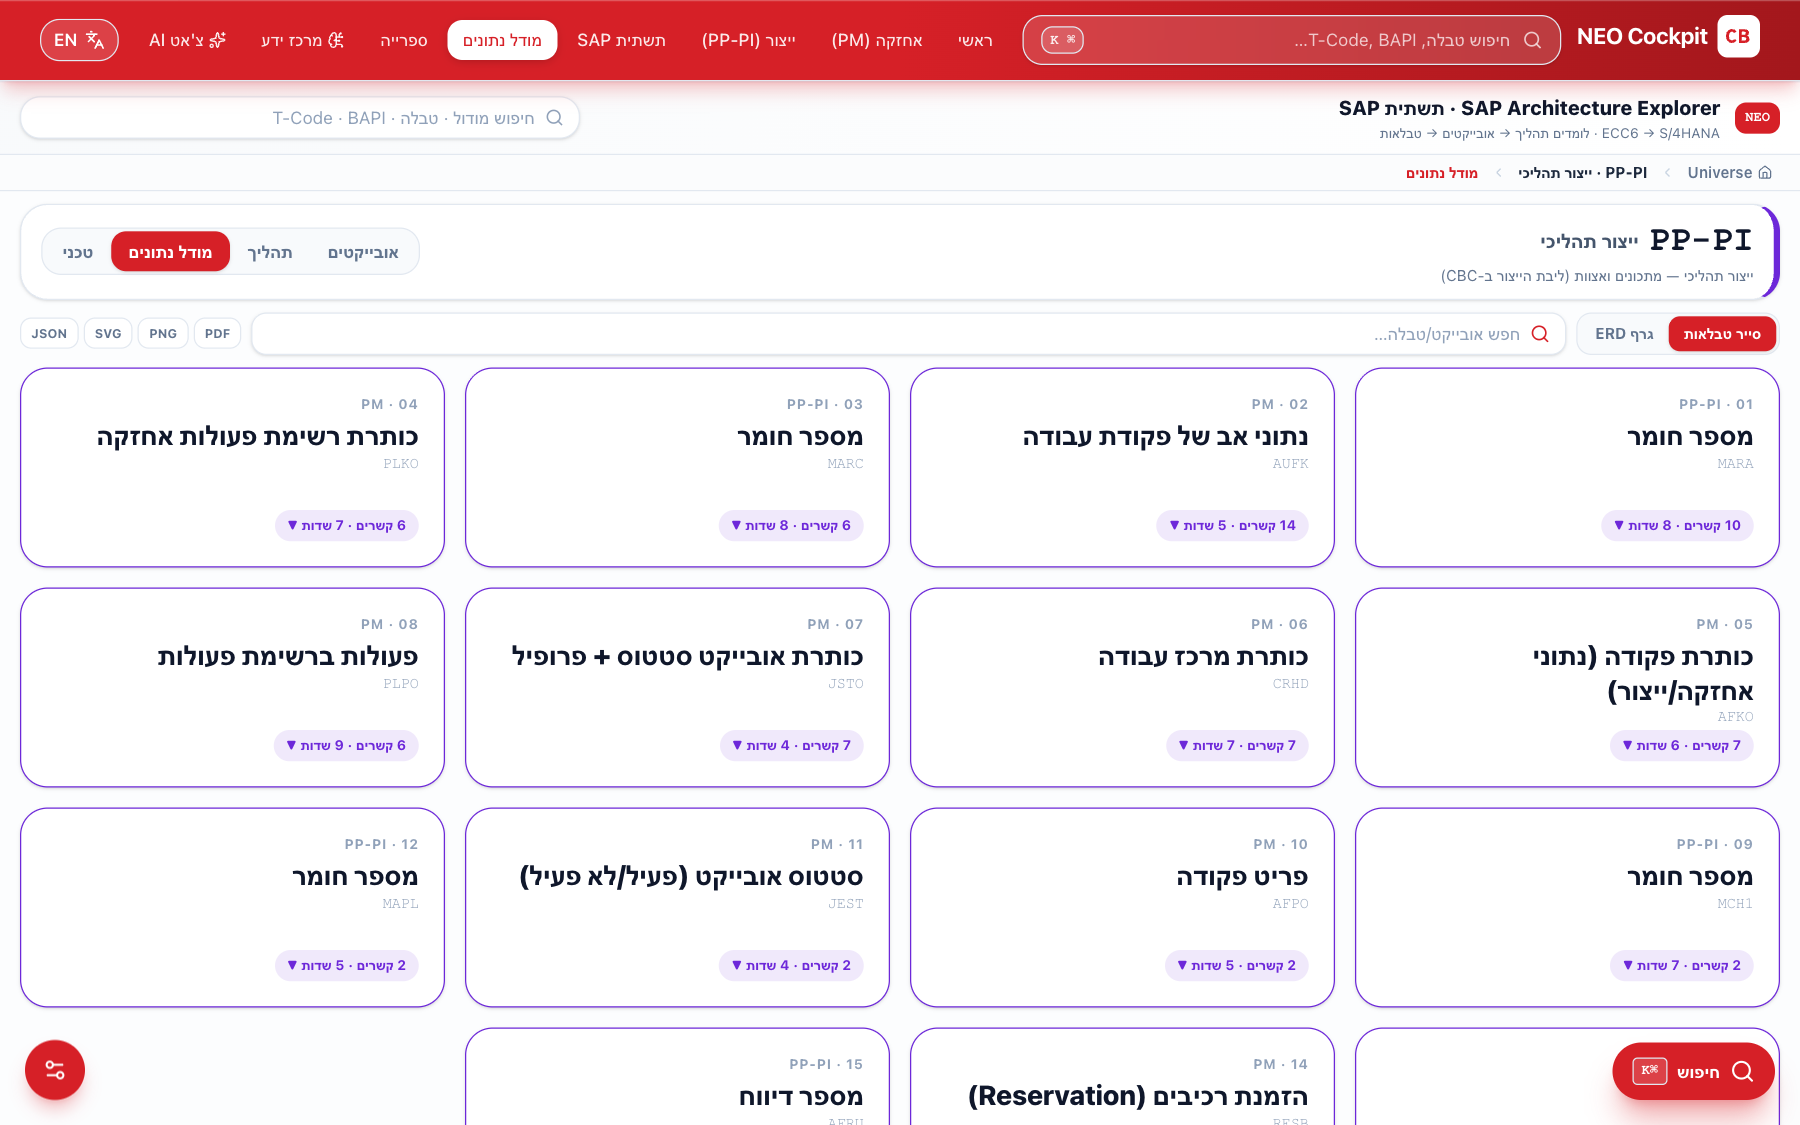
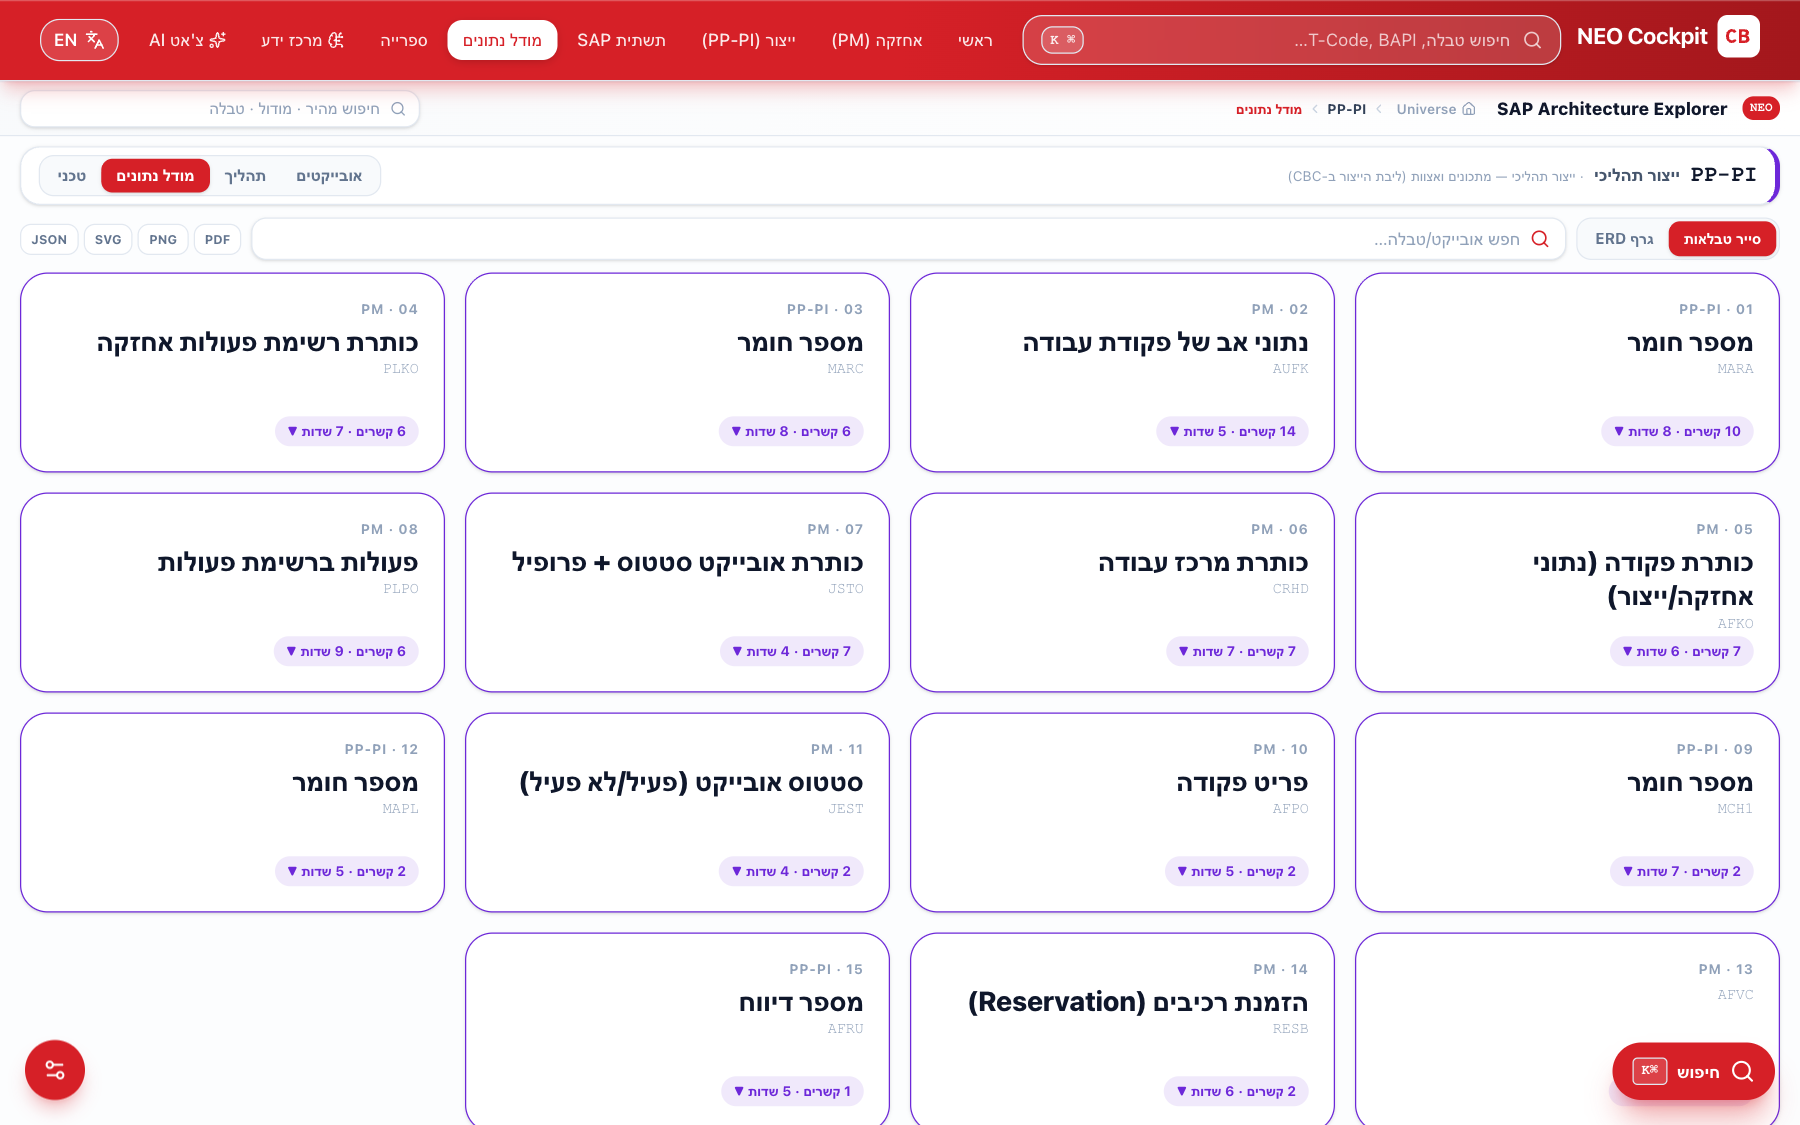
refine(data-model): slim unified header strip
- merge internal top bar + breadcrumb into one slim line (brand · breadcrumb ·
  compact quick-search), drop the oversized duplicate search
- shrink module hero to a slim one-line strip (code · name · purpose · tabs)
- tighter section padding → first card row ~60px higher, 4 rows above fold
Professional compact header near the home bar. Build clean, 0 errors, 0 external.

diff --git a/app/sap-infrastructure/page.tsx b/app/sap-infrastructure/page.tsx
@@ -58,16 +58,19 @@ export default function Page() {
   return (
     <div dir="rtl" className="relative mx-[calc(50%-50vw)] -my-8 w-screen max-w-[100vw] overflow-hidden border-y border-slate-200 bg-white text-slate-900">
       <style>{ANIM}</style>
-      {/* top bar */}
-      <div className="flex flex-wrap items-center justify-between gap-3 border-b border-slate-200 bg-gradient-to-l from-white to-slate-50 px-4 py-2">
-        <div className="flex items-center gap-3">
-          <span className="rounded-md bg-[#d62027] px-2 py-1 font-mono text-[11px] font-bold text-white">NEO</span>
-          <div><div className="text-base font-extrabold text-slate-900">SAP Architecture Explorer · תשתית SAP</div><div className="text-[11px] text-slate-500">ECC6 → S/4HANA · לומדים תהליך → אובייקטים → טבלאות</div></div>
-        </div>
-        <div className="relative w-full max-w-md">
-          <div className="flex items-center gap-2 rounded-xl border border-slate-200 bg-white px-3 py-1.5 shadow-sm">
-            <Search className="size-4 text-slate-400" />
-            <input value={q} onChange={(e) => setQ(e.target.value)} placeholder="חיפוש מודול · טבלה · T-Code · BAPI" className="w-full bg-transparent text-sm outline-none placeholder:text-slate-400" />
+      {/* unified slim header: brand · breadcrumb · compact search */}
+      <div className="flex flex-wrap items-center gap-x-3 gap-y-1 border-b border-slate-200 bg-gradient-to-l from-white to-slate-50 px-4 py-1.5">
+        <span className="rounded-md bg-[#d62027] px-1.5 py-0.5 font-mono text-[10px] font-bold text-white">NEO</span>
+        <span className="text-sm font-extrabold text-slate-900">SAP Architecture Explorer</span>
+        <nav className="flex items-center gap-1 text-[11px]">
+          <button onClick={() => setNav({ level: "universe" })} className="flex items-center gap-1 rounded px-1 py-0.5 font-semibold text-slate-400 hover:bg-slate-100 hover:text-slate-700"><Home className="size-3" />Universe</button>
+          {nav.module && <><ChevronLeft className="size-3 text-slate-300" /><span className="font-bold text-slate-700">{nav.module}</span></>}
+          {nav.module && nav.tab && <><ChevronLeft className="size-3 text-slate-300" /><span className="font-semibold text-[#d62027]">{(TABS.find((x) => x[0] === nav.tab) || ["", nav.tab])[1]}</span></>}
+        </nav>
+        <div className="relative ms-auto w-full max-w-xs">
+          <div className="flex items-center gap-2 rounded-lg border border-slate-200 bg-white px-2.5 py-1 shadow-sm">
+            <Search className="size-3.5 text-slate-400" />
+            <input value={q} onChange={(e) => setQ(e.target.value)} placeholder="חיפוש מהיר · מודול · טבלה" className="w-full bg-transparent text-[13px] outline-none placeholder:text-slate-400" />
             {q && <button onClick={() => setQ("")}><X className="size-3.5 text-slate-400" /></button>}
           </div>
           {results.length > 0 && (
@@ -79,14 +82,8 @@ export default function Page() {
           )}
         </div>
       </div>
-      {/* breadcrumb */}
-      <div className="flex items-center gap-1 border-b border-slate-200 bg-slate-50/60 px-4 py-1 text-xs">
-        <button onClick={() => setNav({ level: "universe" })} className="flex items-center gap-1 rounded px-1.5 py-0.5 font-semibold text-slate-500 hover:bg-slate-100"><Home className="size-3" /> Universe</button>
-        {nav.module && <><ChevronLeft className="size-3 text-slate-300" /><span className="rounded px-1.5 py-0.5 font-bold text-slate-800">{nav.module} · {MOD_NAME_HE[nav.module]}</span></>}
-        {nav.module && nav.tab && <><ChevronLeft className="size-3 text-slate-300" /><span className="rounded px-1.5 py-0.5 font-semibold text-[#d62027]">{(TABS.find((x) => x[0] === nav.tab) || ["", nav.tab])[1]}</span></>}
-      </div>
 
-      <div className="bg-slate-50/40 px-4 py-2.5">
+      <div className="bg-slate-50/40 px-4 py-2">
         {nav.level === "universe" && <Universe data={data} color={color} onModule={openModule} />}
         {nav.level === "module" && nav.module && <Workspace data={data} color={color} code={nav.module} tab={nav.tab || "erd"} focus={nav.focus} byName={byName}
           setTab={(t) => setNav({ level: "module", module: nav.module, tab: t })} openErd={(focus) => setNav({ level: "module", module: nav.module, tab: "erd", focus })}
@@ -170,10 +167,14 @@ function Workspace({ data, color, code, tab, focus, byName, setTab, openErd, onT
   useEffect(() => { setErdMode("cards"); }, [code]);
   return (
     <div className="space-y-2.5" style={{ animation: "fadeUp .35s ease both" }}>
-      <div className="flex flex-wrap items-center justify-between gap-3 rounded-2xl border border-slate-200 bg-white px-4 py-2.5 shadow-sm" style={{ borderInlineStartColor: c, borderInlineStartWidth: 5 }}>
-        <div><div className="flex items-center gap-2"><span className="font-mono text-2xl font-extrabold text-slate-900">{code}</span><span className="font-semibold text-slate-600">{MOD_NAME_HE[code]}</span></div><p className="mt-0.5 max-w-3xl text-xs text-slate-500">{purpose}</p></div>
-        <div className="flex rounded-xl border border-slate-200 bg-slate-50 p-0.5">
-          {TABS.map(([id, label]) => <button key={id} onClick={() => setTab(id)} className={`rounded-lg px-3.5 py-1.5 text-sm font-bold transition ${tab === id ? "bg-[#d62027] text-white shadow-sm" : "text-slate-500 hover:text-slate-900"}`}>{label}</button>)}
+      <div className="flex flex-wrap items-center justify-between gap-x-4 gap-y-2 rounded-xl border border-slate-200 bg-white px-3.5 py-1.5 shadow-sm" style={{ borderInlineStartColor: c, borderInlineStartWidth: 4 }}>
+        <div className="flex min-w-0 items-baseline gap-2">
+          <span className="font-mono text-lg font-extrabold text-slate-900">{code}</span>
+          <span className="text-sm font-bold text-slate-600">{MOD_NAME_HE[code]}</span>
+          <span className="hidden truncate text-[11px] text-slate-400 lg:inline">· {purpose}</span>
+        </div>
+        <div className="flex rounded-lg border border-slate-200 bg-slate-50 p-0.5">
+          {TABS.map(([id, label]) => <button key={id} onClick={() => setTab(id)} className={`rounded-md px-3 py-1 text-[13px] font-bold transition ${tab === id ? "bg-[#d62027] text-white shadow-sm" : "text-slate-500 hover:text-slate-900"}`}>{label}</button>)}
         </div>
       </div>
       {tab === "objects" && <ObjectsView data={data} color={color} code={code} byName={byName} onObjectErd={(tables) => openErd(tables)} onTable={onTable} />}
